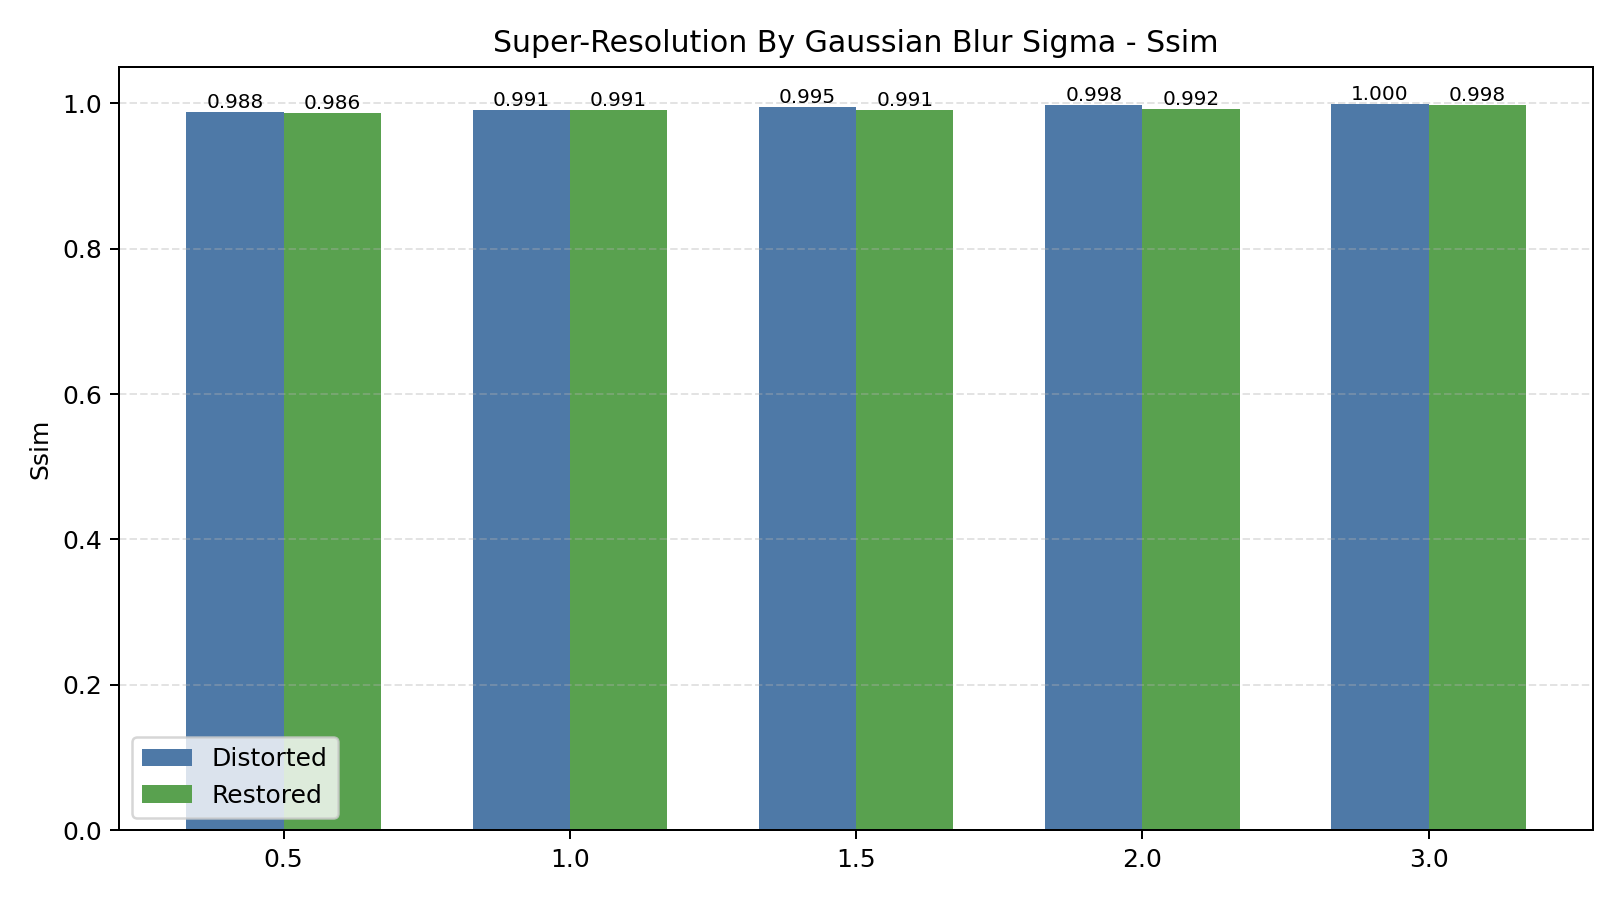
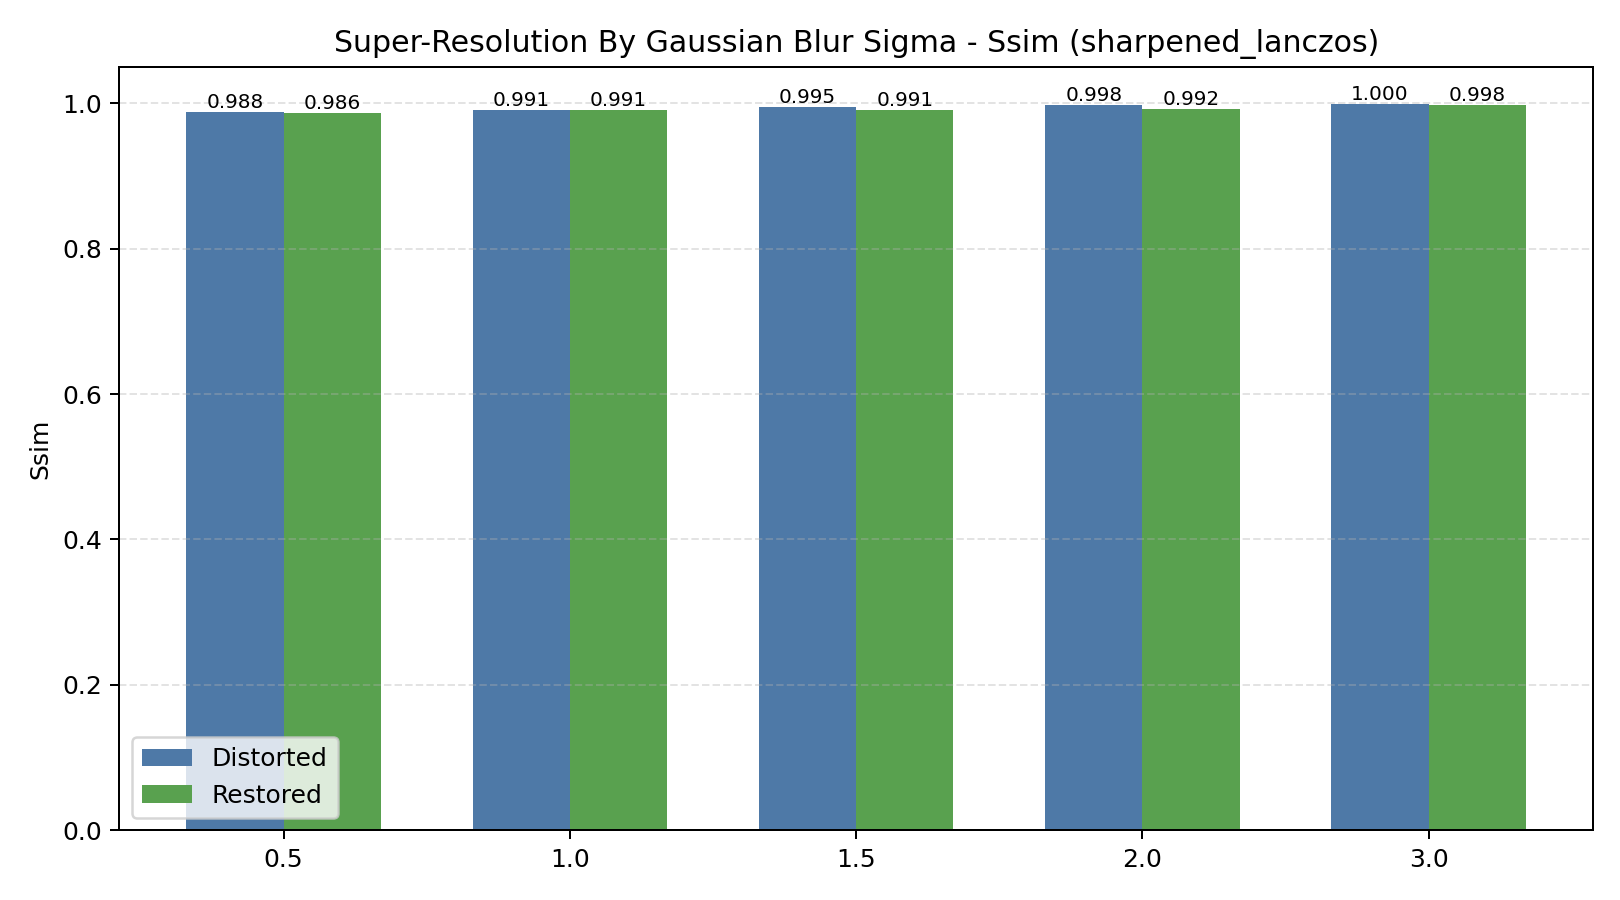
Label Task 1 SNR graphs with sharpened lanczos

Changed region(s): [[0.1852, 0.0311, 0.8642, 0.0622]]

diff --git a/task/task 1 super resalution/super_resolution_snr.py b/task/task 1 super resalution/super_resolution_snr.py
@@ -188,7 +188,10 @@ def save_metric_graph(
 
     plt.xticks(x_positions, labels)
     plt.ylabel(metric.replace("_", " ").title())
-    plt.title(f"{title} - {metric.replace('_', ' ').title()}")
+    plt.title(
+        f"{title} - {metric.replace('_', ' ').title()} "
+        "(sharpened_lanczos)"
+    )
     plt.grid(axis="y", linestyle="--", alpha=0.35)
     plt.legend()
 
